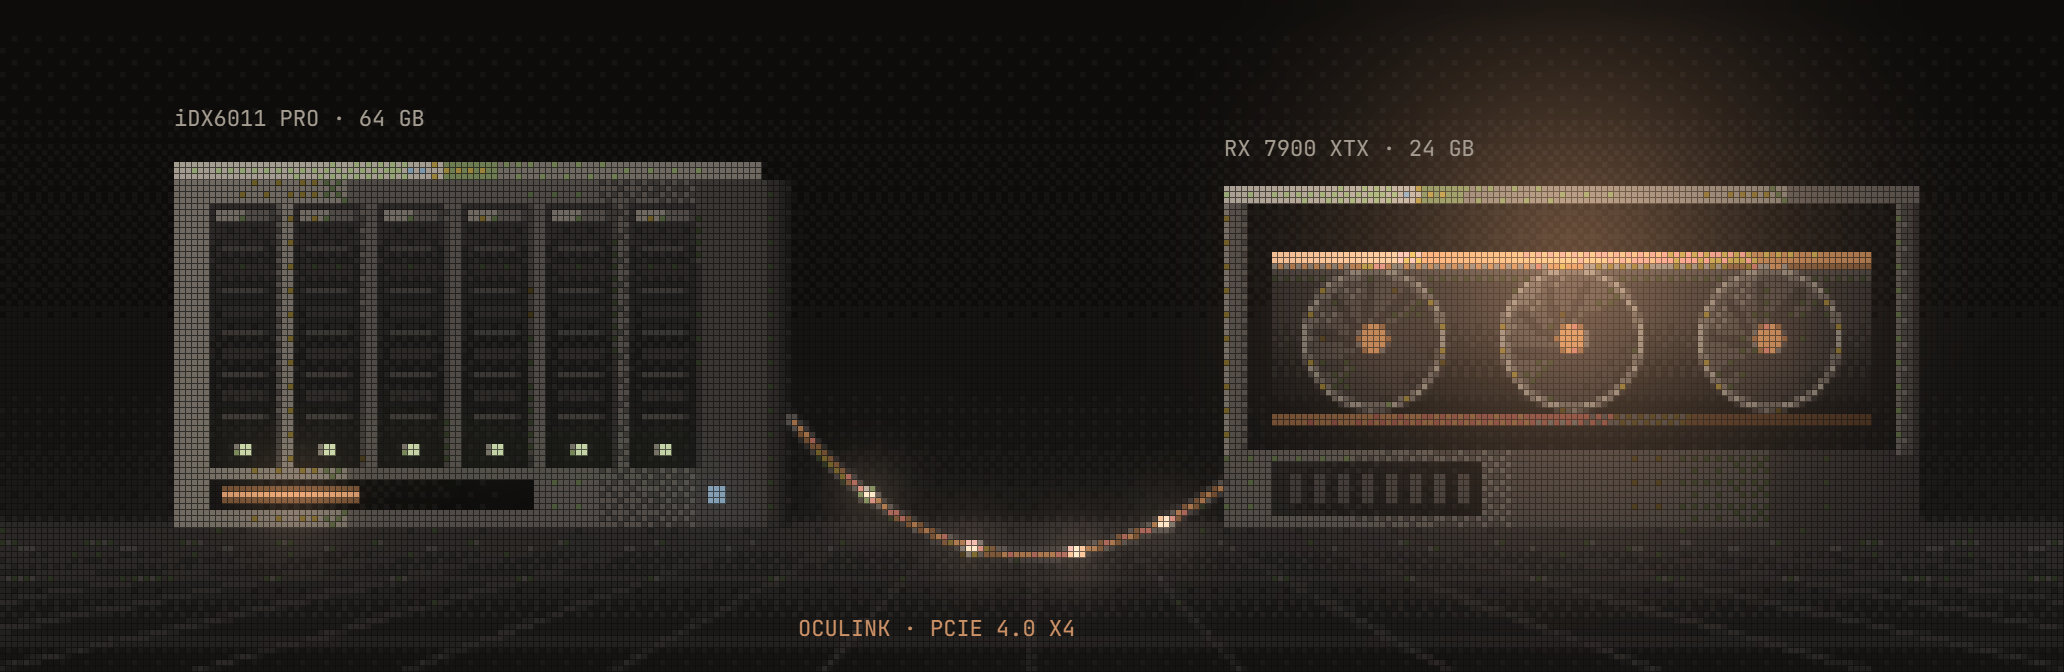
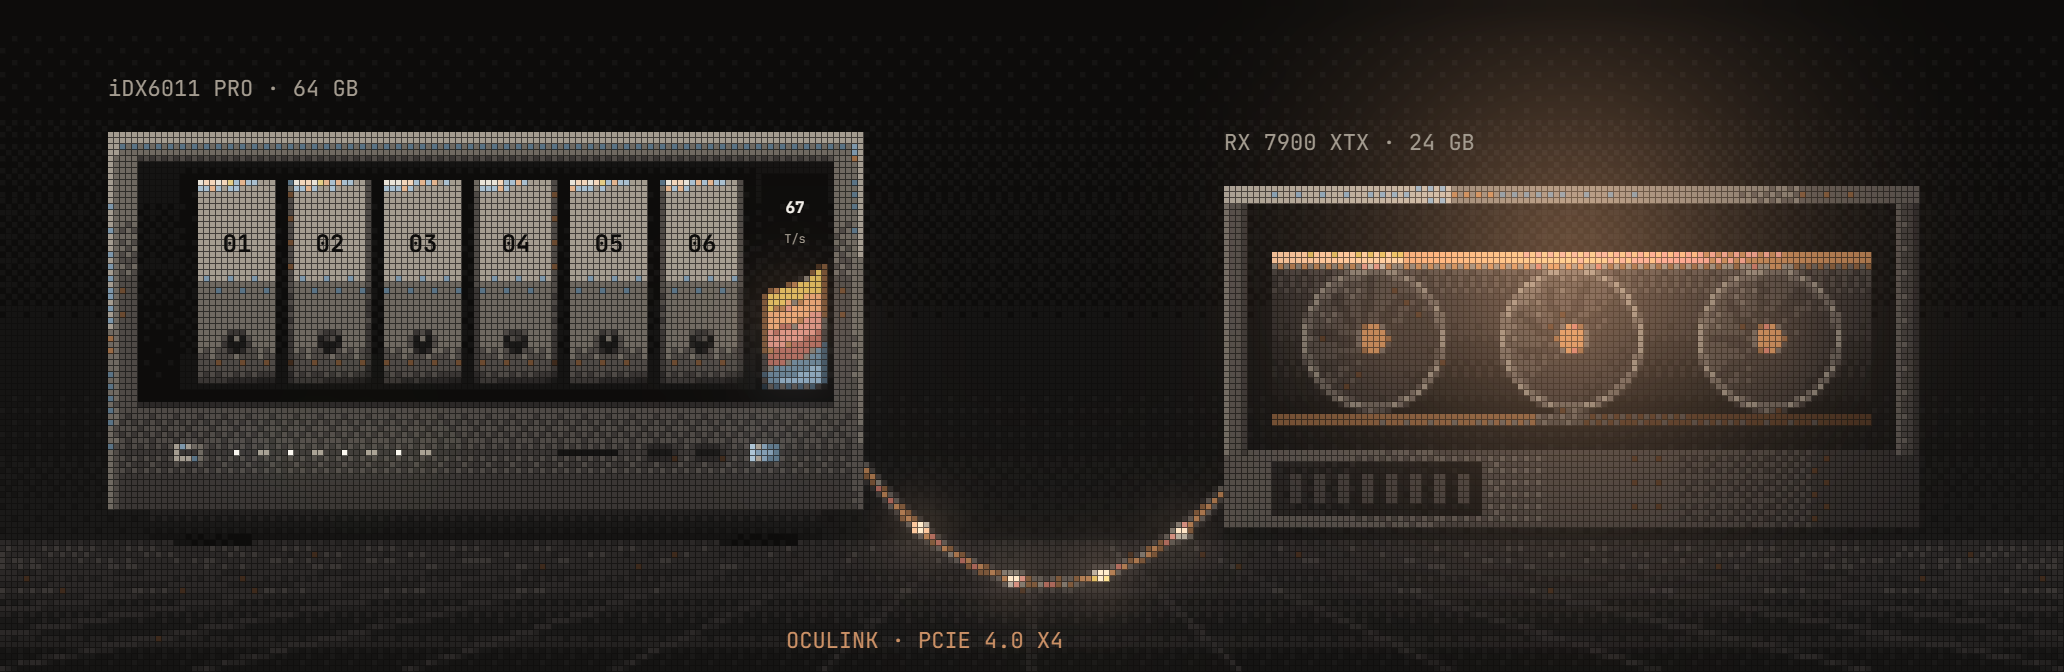
web: header text graphic redrawn after the front view of the NAS (six numbered bays, display, port strip)

diff --git a/web/szene/anlage.js b/web/szene/anlage.js
@@ -1,6 +1,9 @@
-/* Textgrafik für den Seitenkopf: NAS, OCuLink-Kabel, Dock mit Karte. Mit Licht gemalt, dann gerastert (Baustein textgrafik.js). */
+/* Textgrafik für den Seitenkopf: NAS, OCuLink-Kabel, Dock mit Karte. Mit Licht gemalt, dann gerastert (Baustein textgrafik.js).
+   Das NAS ist nach der Frontansicht des iDX6011 Pro gezeichnet: sechs nummerierte Einschübe, Anzeige rechts, Leiste mit Anschlüssen. */
 function Anlage(canvas, s) {
-  var tg = Textgrafik.erzeuge({ spalten: 344, zeilen: 112, palette: Textgrafik.PALETTEN.workbench, grund: '0d0c0b', koernung: false });
+  // Tonleitern Grund, Bernstein und Stahl, dazu vier Töne für die Anzeige. Salbei fehlt mit Absicht: mittlere Grautöne fielen sonst ins Grünliche.
+  var P = Textgrafik.PALETTEN.workbench, palette = P.slice(0, 17).concat(P.slice(22, 27), ['c7a854', 'e4cd85', '9a5b50', 'c07f73']);
+  var tg = Textgrafik.erzeuge({ spalten: 344, zeilen: 112, palette: palette, grund: '0d0c0b', koernung: false });
   tg.neu();
   var S = tg.szene.getContext('2d'), Li = tg.licht.getContext('2d'), W = 688, H = 224;
   function verlauf(x0, y0, x1, y1, stufen) { var g = S.createLinearGradient(x0, y0, x1, y1); stufen.forEach(function (p) { g.addColorStop(p[0], p[1]); }); return g; }
@@ -8,26 +11,44 @@ function Anlage(canvas, s) {
   function leuchte(x, y, r, farbe, staerke) { var g = Li.createRadialGradient(x, y, 0, x, y, r); g.addColorStop(0, farbe); g.addColorStop(1, 'rgba(0,0,0,0)'); Li.globalAlpha = staerke; Li.fillStyle = g; Li.fillRect(x - r, y - r, 2 * r, 2 * r); Li.globalAlpha = 1; }
 
   // Raum und Boden
-  S.fillStyle = verlauf(0, 0, 0, H, [[0, '#0d0c0b'], [.55, '#151413'], [.77, '#1a1918'], [.78, '#2b2827'], [1, '#151413']]); S.fillRect(0, 0, W, H);
+  S.fillStyle = verlauf(0, 0, 0, H, [[0, '#0d0c0b'], [.55, '#151413'], [.80, '#1a1918'], [.81, '#2b2827'], [1, '#151413']]); S.fillRect(0, 0, W, H);
   S.strokeStyle = '#3a3634'; S.lineWidth = 1;
-  for (var i = -8; i <= 20; i++) { S.beginPath(); S.moveTo(W / 2 + (i - 6) * 26, 175); S.lineTo(W / 2 + (i - 6) * 70, H); S.stroke(); }
-  for (var j = 0; j < 4; j++) { S.beginPath(); S.moveTo(0, 182 + j * j * 5 + j * 6); S.lineTo(W, 182 + j * j * 5 + j * 6); S.stroke(); }
+  for (var i = -8; i <= 20; i++) { S.beginPath(); S.moveTo(W / 2 + (i - 6) * 26, 182); S.lineTo(W / 2 + (i - 6) * 70, H); S.stroke(); }
+  for (var j = 0; j < 4; j++) { S.beginPath(); S.moveTo(0, 188 + j * j * 4 + j * 5); S.lineTo(W, 188 + j * j * 4 + j * 5); S.stroke(); }
 
-  // NAS: Gehäuse, sechs Einschübe, Anzeige
-  kasten(58, 54, 196, 122, '#6f6961', '#3a3634');
-  kasten(58, 54, 196, 6, '#a49c90', '#6f6961');
-  kasten(254, 60, 10, 116, '#3a3634', '#1a1918');
+  // ── NAS (Frontansicht) ──
+  var NX = 36, NY = 44, NW = 252, NH = 126;
+  kasten(NX + 14, NY + NH, NW - 28, 10, '#232120', '#151413', true);                       // Sockel
+  kasten(NX + 22, NY + NH + 8, 26, 4, '#151413', '#0d0c0b'); kasten(NX + NW - 48, NY + NH + 8, 26, 4, '#151413', '#0d0c0b');
+  S.fillStyle = verlauf(NX, NY, NX, NY + NH, [[0, '#a49c90'], [.06, '#6f6961'], [.62, '#4f4a46'], [1, '#3a3634']]); S.fillRect(NX, NY, NW, NH);  // Gehäuse
+  kasten(NX, NY, 3, NH, '#a49c90', '#6f6961', true); kasten(NX + NW - 3, NY, 3, NH, '#a49c90', '#4f4a46', true);                              // helle Kanten
+  kasten(NX + 10, NY + 9, NW - 20, 82, '#151413', '#0d0c0b', true);                         // schwarze Blende
+  var TX = NX + 30, TB = 26, TA = 31;                                                      // Einschübe
+  kasten(TX - 6, NY + 13, 6 * TA + 6, 74, '#0d0c0b', '#151413', true);
   for (var e = 0; e < 6; e++) {
-    var x = 70 + e * 28;
-    kasten(x, 68, 23, 88, '#2b2827', '#151413', true);
-    kasten(x + 2, 70, 19, 4, '#6f6961', '#4f4a46');
-    S.fillStyle = '#3a3634'; for (var r = 0; r < 9; r++) S.fillRect(x + 4, 82 + r * 7, 15, 2);
-    S.fillStyle = '#bccaa0'; S.fillRect(x + 9, 148, 5, 4); leuchte(x + 11, 150, 9, '#93a373', .9);
+    var x = TX + e * TA;
+    kasten(x, NY + 16, TB, 68, '#6f6961', '#6f6961');                                      // Flächen in genauen Palettentönen, sonst kippt das Raster ins Bläuliche
+    kasten(x, NY + 16, TB, 30, '#a49c90', '#a49c90'); kasten(x, NY + 46, TB, 8, '#a49c90', '#6f6961', true); kasten(x, NY + 66, TB, 18, '#6f6961', '#4f4a46', true);
+    kasten(x, NY + 16, TB, 3, '#e9e3d8', '#a49c90');                                       // Glanzkante oben
+    kasten(x, NY + 81, TB, 3, '#3a3634', '#232120');
+    S.fillStyle = '#1a1918'; S.beginPath(); S.arc(x + TB / 2, NY + 70, 4, 0, 7); S.fill();  // Schloss
+    S.fillStyle = '#6f6961'; S.fillRect(x + TB / 2 - 1, NY + 67, 2, 3);
   }
-  kasten(70, 160, 108, 10, '#151413', '#0d0c0b'); S.fillStyle = '#cc9166'; S.fillRect(74, 163, 46, 4); leuchte(98, 165, 22, '#cc9166', .7);
-  S.fillStyle = '#7d97ab'; S.fillRect(236, 162, 6, 6); leuchte(239, 165, 10, '#7d97ab', .8);
+  var DX = NX + NW - 34;                                                                    // Anzeige
+  kasten(DX, NY + 14, 22, 72, '#0d0c0b', '#151413', true);
+  var wellen = [['#c7a854', 0], ['#cc9166', 7], ['#c07f73', 14], ['#9a5b50', 20], ['#5a7385', 26], ['#7d97ab', 31]];
+  S.save(); S.beginPath(); S.rect(DX + 1, NY + 44, 20, 41); S.clip();
+  wellen.forEach(function (wl) { S.strokeStyle = wl[0]; S.lineWidth = 6; S.beginPath(); S.moveTo(DX - 4, NY + 62 + wl[1]); S.bezierCurveTo(DX + 6, NY + 50 + wl[1], DX + 14, NY + 60 + wl[1], DX + 28, NY + 40 + wl[1]); S.stroke(); });
+  S.restore();
+  leuchte(DX + 11, NY + 62, 26, '#cc9166', .55); leuchte(DX + 11, NY + 78, 18, '#7d97ab', .45);
+  // untere Leiste: Taster, Leuchtdioden, Kartenleser, zweimal USB-C, USB blau
+  kasten(NX + 22, NY + 104, 10, 6, '#a49c90', '#6f6961'); kasten(NX + 24, NY + 106, 6, 2, '#3a3634', '#3a3634');
+  for (var d = 0; d < 8; d++) { S.fillStyle = '#f5f1eb'; S.fillRect(NX + 42 + d * 9, NY + 106, 2, 2); leuchte(NX + 43 + d * 9, NY + 107, 6, d < 2 ? '#7d97ab' : '#93a373', .8); }
+  kasten(NX + 150, NY + 106, 20, 2, '#151413', '#151413');
+  kasten(NX + 180, NY + 105, 9, 4, '#1a1918', '#1a1918'); kasten(NX + 196, NY + 105, 9, 4, '#1a1918', '#1a1918');
+  kasten(NX + 214, NY + 104, 10, 6, '#a9bfcf', '#5a7385'); leuchte(NX + 219, NY + 107, 9, '#7d97ab', .6);
 
-  // Dock: offener Rahmen, Netzteil, Karte mit drei Lüftern
+  // ── Dock: offener Rahmen, Netzteil, Karte mit drei Lüftern ──
   kasten(408, 150, 232, 26, '#4f4a46', '#2b2827');
   kasten(408, 66, 8, 86, '#6f6961', '#3a3634'); kasten(632, 66, 8, 86, '#4f4a46', '#2b2827'); kasten(408, 62, 232, 6, '#a49c90', '#4f4a46');
   kasten(424, 154, 70, 18, '#232120', '#151413'); S.fillStyle = '#3a3634'; for (var v = 0; v < 8; v++) S.fillRect(430 + v * 8, 158, 4, 10);
@@ -42,18 +63,28 @@ function Anlage(canvas, s) {
   }
   kasten(424, 138, 200, 4, '#6b4a30', '#3e2a1c');
 
-  // OCuLink: Kabel mit laufenden Lichtpunkten
-  function kabel(ctx, breite, farbe) { ctx.strokeStyle = farbe; ctx.lineWidth = breite; ctx.lineCap = 'round'; ctx.beginPath(); ctx.moveTo(264, 140); ctx.bezierCurveTo(310, 196, 360, 196, 408, 162); ctx.stroke(); }
+  // ── OCuLink: Kabel mit laufenden Lichtpunkten ──
+  var K = [[NX + NW, 156], [326, 206], [368, 206], [408, 164]];
+  function kabel(ctx, breite, farbe) { ctx.strokeStyle = farbe; ctx.lineWidth = breite; ctx.lineCap = 'round'; ctx.beginPath(); ctx.moveTo(K[0][0], K[0][1]); ctx.bezierCurveTo(K[1][0], K[1][1], K[2][0], K[2][1], K[3][0], K[3][1]); ctx.stroke(); }
   kabel(S, 5, '#3a3634'); kabel(S, 2, '#9a6b45');
-  [[.18, 1], [.42, .8], [.66, 1], [.86, .7]].forEach(function (p) {
-    var t = p[0], u = 1 - t, px = u * u * u * 264 + 3 * u * u * t * 310 + 3 * u * t * t * 360 + t * t * t * 408, py = u * u * u * 140 + 3 * u * u * t * 196 + 3 * u * t * t * 196 + t * t * t * 162;
+  [[.16, 1], [.42, .8], [.66, 1], [.88, .7]].forEach(function (p) {
+    var t = p[0], u = 1 - t, c = [u * u * u, 3 * u * u * t, 3 * u * t * t, t * t * t], px = 0, py = 0;
+    for (var n = 0; n < 4; n++) { px += c[n] * K[n][0]; py += c[n] * K[n][1]; }
     S.fillStyle = '#f3d6bb'; S.fillRect(px - 2, py - 2, 5, 4); leuchte(px, py, 14, '#e3b48e', p[1]);
   });
 
   tg.zeichne(canvas, s);
-  // Schrift scharf über das Ergebnis
-  var C = canvas.getContext('2d'), k = s / 3;
-  C.font = '500 ' + Math.round(11 * k) + 'px "JetBrains Mono", Consolas, monospace'; C.textBaseline = 'alphabetic';
-  function marke(text, x, y, farbe) { C.fillStyle = farbe; C.fillText(text, Math.round(x * s), Math.round(y * s)); }
-  marke('iDX6011 PRO · 64 GB', 29, 21, '#a49c90'); marke('OCULINK · PCIE 4.0 X4', 133, 106, '#cc9166'); marke('RX 7900 XTX · 24 GB', 204, 26, '#a49c90');
+  // Schrift scharf über das Ergebnis (Szenenkoordinaten / 2 = Zeichenspalte, * s = Gerätepixel)
+  var C = canvas.getContext('2d'), k = s / 3, m = s / 2;
+  C.textBaseline = 'alphabetic';
+  C.font = '500 ' + Math.round(11 * k) + 'px "JetBrains Mono", Consolas, monospace';
+  function marke(text, x, y, farbe) { C.fillStyle = farbe; C.fillText(text, Math.round(x * m), Math.round(y * m)); }
+  marke('iDX6011 PRO · 64 GB', NX, NY - 12, '#a49c90'); marke('OCULINK · PCIE 4.0 X4', 262, 216, '#cc9166'); marke('RX 7900 XTX · 24 GB', 408, 50, '#a49c90');
+  C.font = '700 ' + Math.round(12 * k) + 'px "JetBrains Mono", Consolas, monospace'; C.textAlign = 'center';
+  for (var z = 0; z < 6; z++) marke('0' + (z + 1), TX + z * TA + TB / 2, NY + 40, '#0d0c0b');
+  C.font = '700 ' + Math.round(8 * k) + 'px "JetBrains Mono", Consolas, monospace';
+  marke('67', DX + 11, NY + 27, '#f5f1eb');
+  C.font = '500 ' + Math.round(6 * k) + 'px "JetBrains Mono", Consolas, monospace';
+  marke('T/s', DX + 11, NY + 37, '#a49c90');
+  C.textAlign = 'start';
 }
